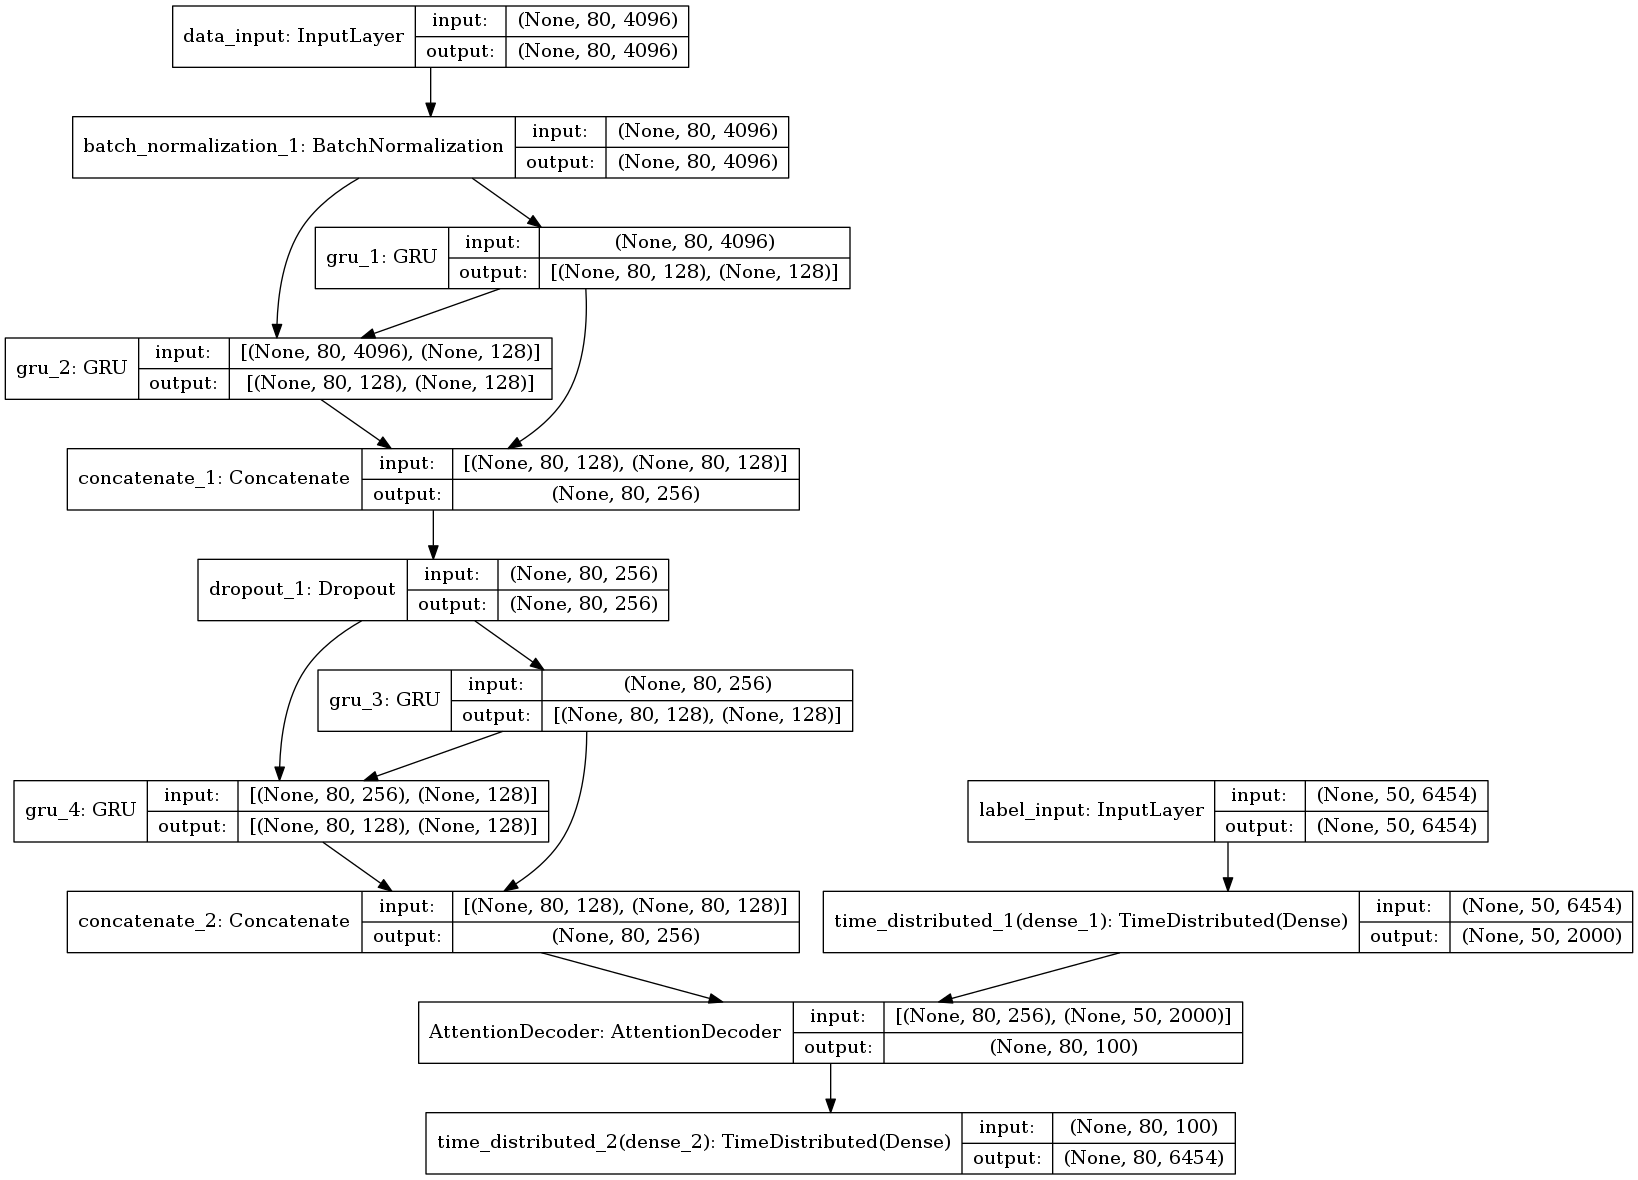
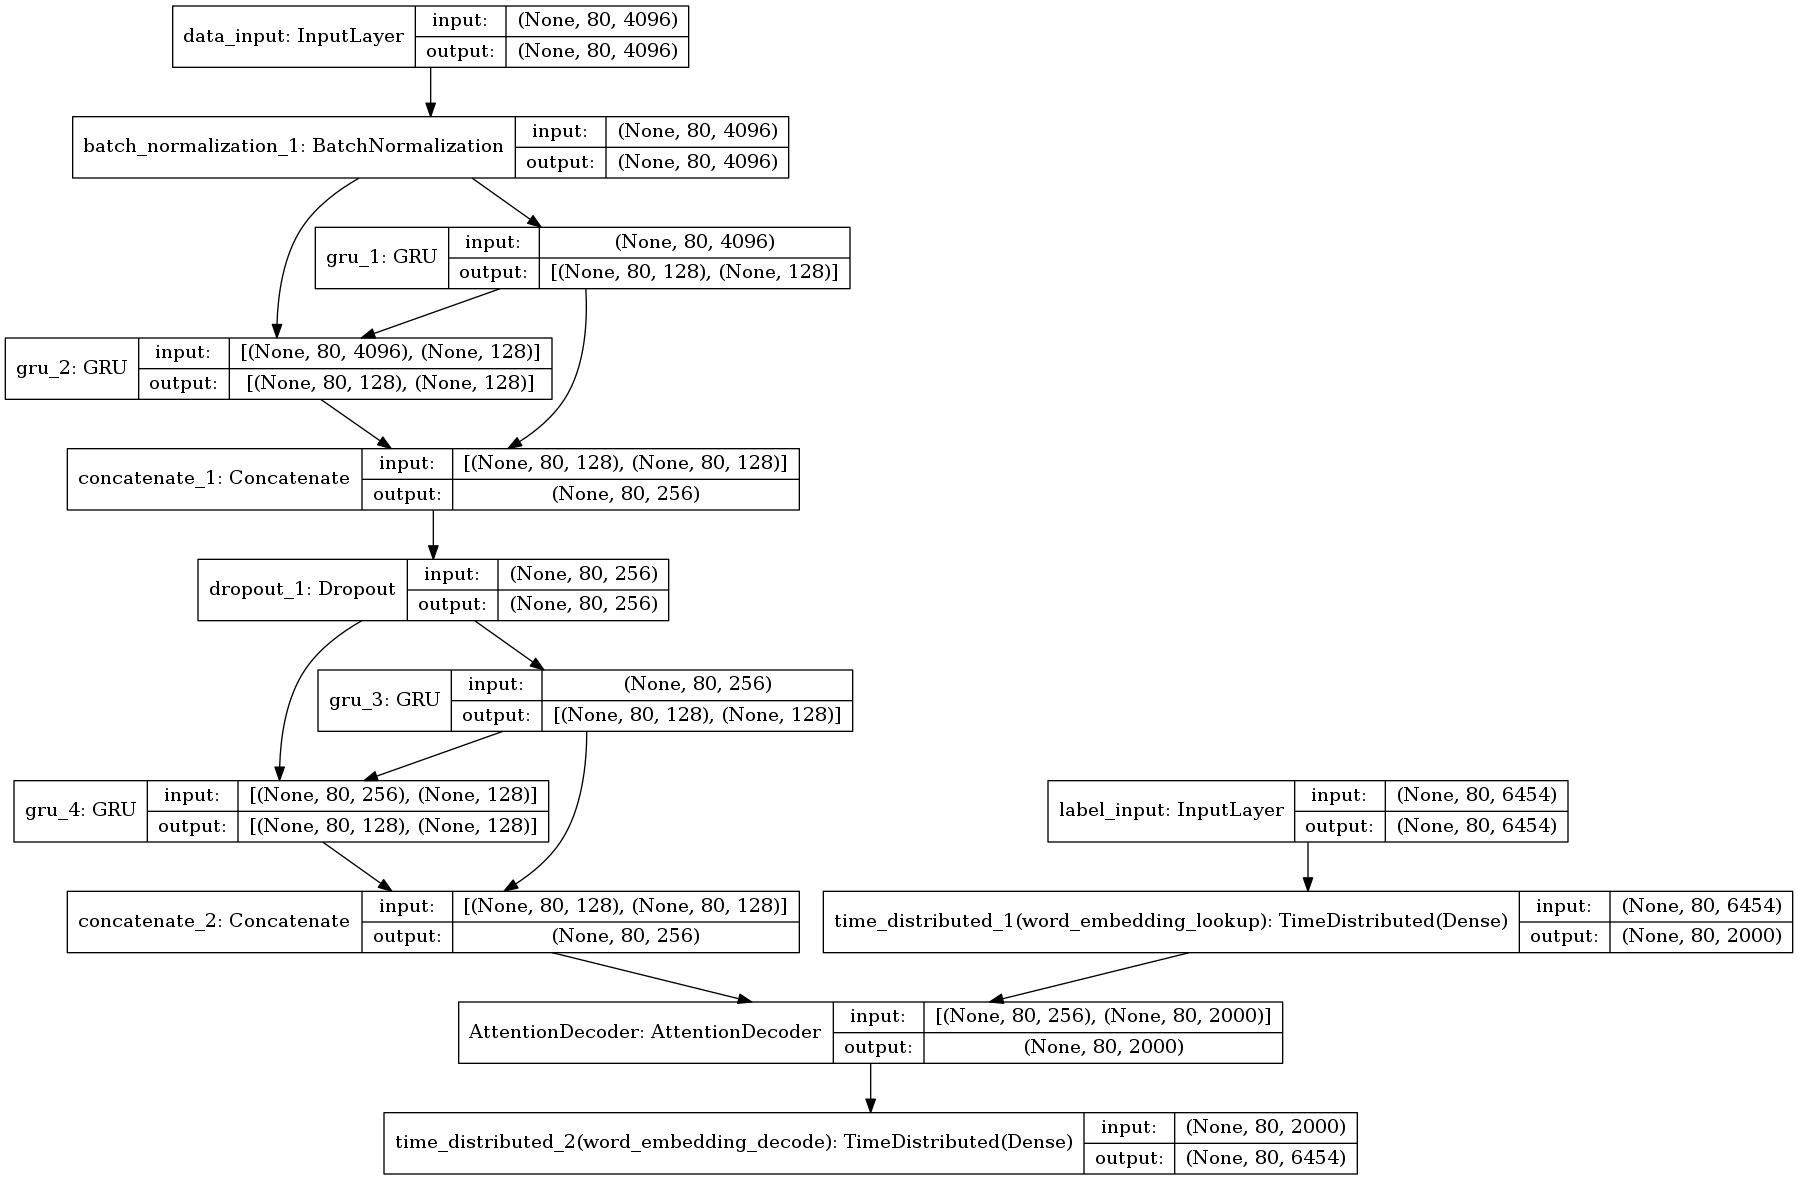
quickly

diff --git a/hw2/scripts/src.py b/hw2/scripts/src.py
@@ -8,9 +8,8 @@ tfPrint = lambda d, T: tf.Print(input_=T, data=[T, tf.shape(T)], message=d)
 
 class AttentionDecoder(Recurrent):
 
-    def __init__(self, units,
+    def __init__(self, units, output_dim,
                  activation='tanh',
-                 recurrent_activation='hard_sigmoid',
                  return_probabilities=False,
                  name='AttentionDecoder',
                  kernel_initializer='glorot_uniform',
@@ -21,8 +20,6 @@ class AttentionDecoder(Recurrent):
                  activity_regularizer=None,
                  kernel_constraint=None,
                  bias_constraint=None,
-                 train_by_label=False,
-                 use_bias = True,
                  **kwargs):
         """
         Implements an AttentionDecoder that takes in a sequence encoded by an
@@ -36,9 +33,9 @@ class AttentionDecoder(Recurrent):
             arXiv preprint arXiv:1409.0473 (2014).
         """
         self.units = units
+        self.output_dim = output_dim
         self.return_probabilities = return_probabilities
         self.activation = activations.get(activation)
-        self.recurrent_activation = activations.get(recurrent_activation)
         self.kernel_initializer = initializers.get(kernel_initializer)
         self.recurrent_initializer = initializers.get(recurrent_initializer)
         self.bias_initializer = initializers.get(bias_initializer)
@@ -52,76 +49,119 @@ class AttentionDecoder(Recurrent):
         self.recurrent_constraint = constraints.get(kernel_constraint)
         self.bias_constraint = constraints.get(bias_constraint)
 
-        self.use_bias = use_bias
         super(AttentionDecoder, self).__init__(**kwargs)
         self.name = name
         self.return_sequences = True  # must return sequences
-        self.train_by_label = train_by_label
 
     def build(self, input_shape):
         """
           See Appendix 2 of Bahdanau 2014, arXiv:1409.0473
           for model details that correspond to the matrices here.
         """
-        print('build',input_shape)
-        self.batch_size, self.timesteps, self.input_dim = input_shape[0]
-        _, self.output_len, self.output_dim = input_shape[1]
-        
-        self.input_spec = [InputSpec(ndim = 3),InputSpec(ndim = 3)]
-        self.input_spec[0] = InputSpec(shape = [self.batch_size, self.timesteps, self.input_dim])
 
-        self.input_spec[1] = InputSpec(shape = [self.batch_size, self.output_len, self.output_dim])
+        self.batch_size, self.timesteps, self.input_dim = input_shape
+
         if self.stateful:
             super(AttentionDecoder, self).reset_states()
 
-        self.states = [None, self.units]  # y, s
+        self.states = [None, None]  # y, s
 
         """
-            Matrices for GRU cells, copy source from keras.layers.recurrent.py with tag 2.0.7
+            Matrices for creating the context vector
+        """
+
+        self.V_a = self.add_weight(shape=(self.units,),
+                                   name='V_a',
+                                   initializer=self.kernel_initializer,
+                                   regularizer=self.kernel_regularizer,
+                                   constraint=self.kernel_constraint)
+        self.W_a = self.add_weight(shape=(self.units, self.units),
+                                   name='W_a',
+                                   initializer=self.kernel_initializer,
+                                   regularizer=self.kernel_regularizer,
+                                   constraint=self.kernel_constraint)
+        self.U_a = self.add_weight(shape=(self.input_dim, self.units),
+                                   name='U_a',
+                                   initializer=self.kernel_initializer,
+                                   regularizer=self.kernel_regularizer,
+                                   constraint=self.kernel_constraint)
+        self.b_a = self.add_weight(shape=(self.units,),
+                                   name='b_a',
+                                   initializer=self.bias_initializer,
+                                   regularizer=self.bias_regularizer,
+                                   constraint=self.bias_constraint)
+        """
+            Matrices for the r (reset) gate
+        """
+        self.C_r = self.add_weight(shape=(self.input_dim, self.units),
+                                   name='C_r',
+                                   initializer=self.recurrent_initializer,
+                                   regularizer=self.recurrent_regularizer,
+                                   constraint=self.recurrent_constraint)
+        self.U_r = self.add_weight(shape=(self.units, self.units),
+                                   name='U_r',
+                                   initializer=self.recurrent_initializer,
+                                   regularizer=self.recurrent_regularizer,
+                                   constraint=self.recurrent_constraint)
+        self.W_r = self.add_weight(shape=(self.output_dim, self.units),
+                                   name='W_r',
+                                   initializer=self.recurrent_initializer,
+                                   regularizer=self.recurrent_regularizer,
+                                   constraint=self.recurrent_constraint)
+        self.b_r = self.add_weight(shape=(self.units, ),
+                                   name='b_r',
+                                   initializer=self.bias_initializer,
+                                   regularizer=self.bias_regularizer,
+                                   constraint=self.bias_constraint)
 
         """
-        self.kernel = self.add_weight(shape=(self.input_dim, self.units * 4),
-                                      name='kernel',
-                                      initializer=self.kernel_initializer,
-                                      regularizer=self.kernel_regularizer,
-                                      constraint=self.kernel_constraint)
-        self.recurrent_kernel = self.add_weight(
-            shape=(self.units, self.units * 4),
-            name='recurrent_kernel',
-            initializer=self.recurrent_initializer,
-            regularizer=self.recurrent_regularizer,
-            constraint=self.recurrent_constraint)
-
-        if self.use_bias:
-            self.bias = self.add_weight(shape=(self.units * 4,),
-                                        name='bias',
-                                        initializer=self.bias_initializer,
-                                        regularizer=self.bias_regularizer,
-                                        constraint=self.bias_constraint)
-        else:
-            self.bias = None
+            Matrices for the z (update) gate
         """
-            Setting matrics variables
+        self.C_z = self.add_weight(shape=(self.input_dim, self.units),
+                                   name='C_z',
+                                   initializer=self.recurrent_initializer,
+                                   regularizer=self.recurrent_regularizer,
+                                   constraint=self.recurrent_constraint)
+        self.U_z = self.add_weight(shape=(self.units, self.units),
+                                   name='U_z',
+                                   initializer=self.recurrent_initializer,
+                                   regularizer=self.recurrent_regularizer,
+                                   constraint=self.recurrent_constraint)
+        self.W_z = self.add_weight(shape=(self.output_dim, self.units),
+                                   name='W_z',
+                                   initializer=self.recurrent_initializer,
+                                   regularizer=self.recurrent_regularizer,
+                                   constraint=self.recurrent_constraint)
+        self.b_z = self.add_weight(shape=(self.units, ),
+                                   name='b_z',
+                                   initializer=self.bias_initializer,
+                                   regularizer=self.bias_regularizer,
+                                   constraint=self.bias_constraint)
         """
-        self.kernel_z = self.kernel[:, :self.units]
-        self.recurrent_kernel_z = self.recurrent_kernel[:, :self.units]
-
-        self.kernel_r = self.kernel[:, self.units: self.units * 2]
-        self.recurrent_kernel_r = self.recurrent_kernel[:,self.units : self.units * 2]
-
-        self.kernel_h = self.kernel[:, self.units * 2:self.units * 3]
-        self.recurrent_kernel_h = self.recurrent_kernel[:, self.units * 2:self.units * 3]
-
-        if self.use_bias:
-            self.bias_z = self.bias[:self.units]
-            self.bias_r = self.bias[self.units: self.units * 2]
-            self.bias_h = self.bias[self.units * 2:self.units * 3]
-        else:
-            self.bias_z = None
-            self.bias_r = None
-            self.bias_h = None
+            Matrices for the proposal
         """
-            New adding
+        self.C_p = self.add_weight(shape=(self.input_dim, self.units),
+                                   name='C_p',
+                                   initializer=self.recurrent_initializer,
+                                   regularizer=self.recurrent_regularizer,
+                                   constraint=self.recurrent_constraint)
+        self.U_p = self.add_weight(shape=(self.units, self.units),
+                                   name='U_p',
+                                   initializer=self.recurrent_initializer,
+                                   regularizer=self.recurrent_regularizer,
+                                   constraint=self.recurrent_constraint)
+        self.W_p = self.add_weight(shape=(self.output_dim, self.units),
+                                   name='W_p',
+                                   initializer=self.recurrent_initializer,
+                                   regularizer=self.recurrent_regularizer,
+                                   constraint=self.recurrent_constraint)
+        self.b_p = self.add_weight(shape=(self.units, ),
+                                   name='b_p',
+                                   initializer=self.bias_initializer,
+                                   regularizer=self.bias_regularizer,
+                                   constraint=self.bias_constraint)
+        """
+            Matrices for making the final prediction vector
         """
         self.C_o = self.add_weight(shape=(self.input_dim, self.output_dim),
                                    name='C_o',
@@ -144,34 +184,21 @@ class AttentionDecoder(Recurrent):
                                    regularizer=self.bias_regularizer,
                                    constraint=self.bias_constraint)
 
-        """
-            Setting matrices for creating the context vector
-        """
-        self.V_a = self.add_weight(shape=(self.units,),
-                                   name='V_a',
-                                   initializer=self.kernel_initializer,
-                                   regularizer=self.kernel_regularizer,
-                                   constraint=self.kernel_constraint)
-        self.W_a = self.recurrent_kernel[:, self.units * 3:]
-        self.U_a = self.kernel[:, self.units * 3:]
-        if self.use_bias:
-            self.b_a = self.bias[self.units * 3:]
-        else:
-            self.b_a = None
-
         # For creating the initial state:
-        self.W_s = self.add_weight(shape=(self.output_dim, self.units),
+        self.W_s = self.add_weight(shape=(self.input_dim, self.units),
                                    name='W_s',
                                    initializer=self.recurrent_initializer,
                                    regularizer=self.recurrent_regularizer,
                                    constraint=self.recurrent_constraint)
+
+        self.input_spec = [
+            InputSpec(shape=(self.batch_size, self.timesteps, self.input_dim))]
         self.built = True
 
-    def call(self, inputs):
+    def call(self, x):
         # store the whole sequence so we can "attend" to it at each timestep
-        self.x_seq = inputs[0]
-        self.y_seq = inputs[1]
-        print('call',self.y_seq)
+        self.x_seq = x
+
         # apply the a dense layer over the time dimension of the sequence
         # do it here because it doesn't depend on any previous steps
         # thefore we can save computation time:
@@ -180,29 +207,26 @@ class AttentionDecoder(Recurrent):
                                              timesteps=self.timesteps,
                                              output_dim=self.units)
 
-        return super(AttentionDecoder, self).call(self.y_seq)
+        return super(AttentionDecoder, self).call(x)
 
     def get_initial_state(self, inputs):
-        print('inputs shape:', self.y_seq.get_shape())
+        print('inputs shape:', inputs.get_shape())
+
         # apply the matrix on the first time step to get the initial s0.
-        print('w_s',self.W_s.get_shape())
         s0 = activations.tanh(K.dot(inputs[:, 0], self.W_s))
 
         # from keras.layers.recurrent to initialize a vector of (batchsize,
         # output_dim)
-        '''
-        y0 = K.zeros_like(self.y_seq)  # (samples, timesteps, input_dims)
+        y0 = K.zeros_like(inputs)  # (samples, timesteps, input_dims)
         y0 = K.sum(y0, axis=(1, 2))  # (samples, )
         y0 = K.expand_dims(y0)  # (samples, 1)
-        y0 = K.tile(y0, [1, self.units])
-        '''
-        y0 = inputs[:,0]
-        print('y0,s0',y0.get_shape(),s0.get_shape())
+        y0 = K.tile(y0, [1, self.output_dim])
+
         return [y0, s0]
 
     def step(self, x, states):
+
         ytm, stm = states
-        print('Head ',ytm.shape,stm.shape)
 
         # repeat the hidden state to the length of the sequence
         _stm = K.repeat(stm, self.timesteps)
@@ -224,40 +248,39 @@ class AttentionDecoder(Recurrent):
         # ~~~> calculate new hidden state
         # first calculate the "r" gate:
 
-        """
-            Original GRU cell operations.
-        
-        """
+        rt = activations.sigmoid(
+            K.dot(ytm, self.W_r)
+            + K.dot(stm, self.U_r)
+            + K.dot(context, self.C_r)
+            + self.b_r)
 
-        x_z = K.dot(context, self.kernel_z)
-        x_r = K.dot(context, self.kernel_r)
-        x_h = K.dot(context, self.kernel_h)
-        if self.use_bias:
-            x_z = K.bias_add(x_z, self.bias_z)
-            x_r = K.bias_add(x_r, self.bias_r)
-            x_h = K.bias_add(x_h, self.bias_h)
-        z = self.recurrent_activation(x_z + K.dot(stm, self.recurrent_kernel_z))
-        r = self.recurrent_activation(x_r + K.dot(stm, self.recurrent_kernel_r))
+        # now calculate the "z" gate
+        zt = activations.sigmoid(
+            K.dot(ytm, self.W_z)
+            + K.dot(stm, self.U_z)
+            + K.dot(context, self.C_z)
+            + self.b_z)
 
-        hh = self.activation(x_h + K.dot(r * stm, self.recurrent_kernel_h))
-        h = z * stm + (1 - z) * hh
-        if 0 < self.dropout + self.recurrent_dropout:
-            h._uses_learning_phase = True
-        if self.train_by_label:
-            ytm = x
-        '''
+        # calculate the proposal hidden state:
+        s_tp = activations.tanh(
+            K.dot(ytm, self.W_p)
+            + K.dot((rt * stm), self.U_p)
+            + K.dot(context, self.C_p)
+            + self.b_p)
+
+        # new hidden state:
+        st = (1-zt)*stm + zt * s_tp
+
         yt = activations.softmax(
             K.dot(ytm, self.W_o)
             + K.dot(stm, self.U_o)
             + K.dot(context, self.C_o)
             + self.b_o)
-        '''
-        yt = ytm
-        print('tail ',yt.shape,h.shape)
+
         if self.return_probabilities:
             return at, [yt, st]
         else:
-            return yt, [yt, h]
+            return yt, [yt, st]
 
     def compute_output_shape(self, input_shape):
         """
@@ -266,7 +289,7 @@ class AttentionDecoder(Recurrent):
         if self.return_probabilities:
             return (None, self.timesteps, self.timesteps)
         else:
-            return (None, self.output_len, self.output_dim)
+            return (None, self.timesteps, self.output_dim)
 
     def get_config(self):
         """

diff --git a/hw2/scripts/attention.py b/hw2/scripts/attention.py
@@ -15,7 +15,7 @@ def model(input_len,input_dim,output_len,vocab_dim):
     # Try replacing GRU, or SimpleRNN.
     #
     data = Input(shape=(input_len,input_dim), name = 'data_input')
-    label = Input(shape=(output_len,vocab_dim), name = 'label_input')
+    label = Input(shape=(80,vocab_dim), name = 'label_input')
     #in this application, input dim = vocabulary dim
     #masking
     x = data
@@ -36,11 +36,11 @@ def model(input_len,input_dim,output_len,vocab_dim):
             x = Dropout(config.DROPOUT)(x)
 
     #word embedding
-    y = TimeDistributed(Dense(config.EMBEDDING_DIM,activation = 'linear'))(label)
+    y = TimeDistributed(Dense(config.EMBEDDING_DIM,activation = 'linear',name ='word_embedding_lookup'))(label)
     #decoder
     print('build attention')
-    y = custom_recurrents.AttentionDecoder(100,output_dim = vocab_dim)([x,y])
-    y = TimeDistributed(Dense(vocab_dim,activation = 'softmax'))(y) 
+    y = custom_recurrents.AttentionDecoder(100,train_by_label=True)([x,y])
+    y = TimeDistributed(Dense(vocab_dim,activation = 'softmax',name ='word_embedding_decode'))(y) 
     print('build attention done')
     
     model = Model(inputs = [data,label],output=y)  

diff --git a/hw2/scripts/train_att.py b/hw2/scripts/train_att.py
@@ -53,9 +53,12 @@ if __name__ == '__main__':
     print('Done') 
    
     print 'start training' 
+    '''
     model.compile(loss=utils.loss_with_mask,
                   optimizer='adam',
                   metrics=[utils.acc_with_mask],sample_weight_mode = 'temporal')
+    '''
+    model.compile(loss='categorical_crossentropy',optimizer='adam')
     for epoch_idx in range(2000000):
 
         for caption_idx in range(1):
@@ -65,7 +68,7 @@ if __name__ == '__main__':
             np.copyto(y2[:,:50,:],y)
             
             #np.copyto(train_cheat[:,1:,:],y[:,:-1,:])
-            his = model.fit(x=[x,y], y=y2,
+            his = model.fit(x=[x,y2], y=y2,
                       batch_size=2,verbose=1,
                       epochs=1)
 
